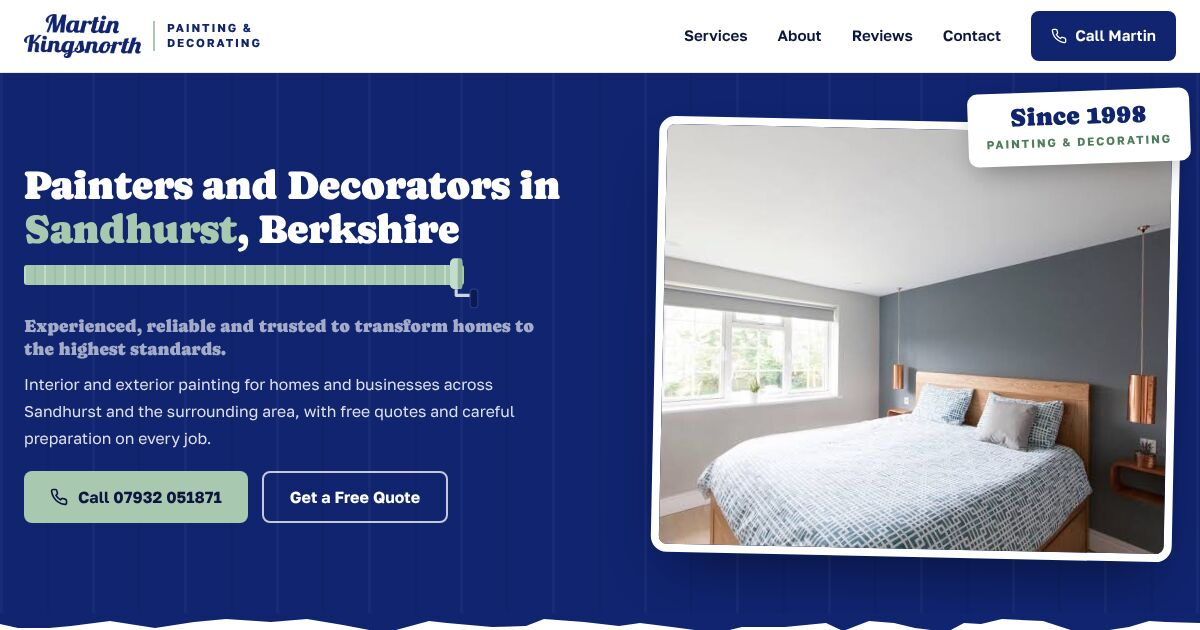
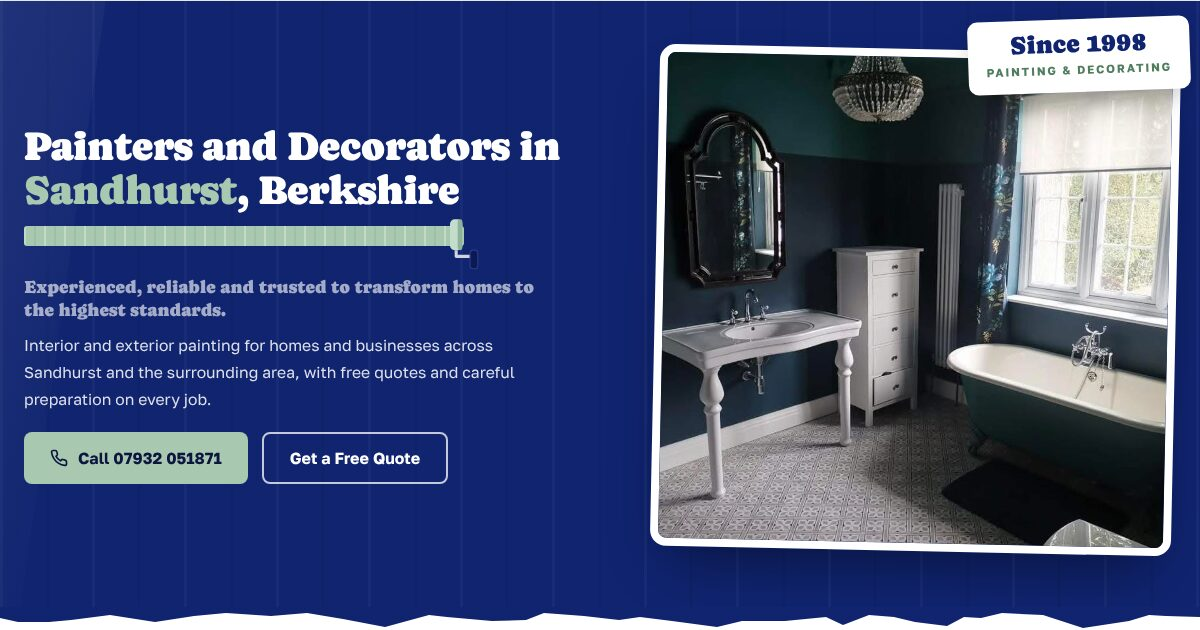
MK Painting: his own photos, recent work gallery, areas covered and dustless sanding
Replaces every stock photo with Martin's own job photos (hero, four
service cards and a 14-photo recent work gallery), adds an areas covered
panel with Sandhurst and slots for the towns still to confirm, and a
dustless sanding panel under the process steps.

diff --git a/mk-painting/index.html b/mk-painting/index.html
@@ -132,7 +132,7 @@ section{padding-top:96px;padding-bottom:96px}
 .svc::before{content:"";position:absolute;left:0;right:0;top:0;height:5px;background:var(--sage-deep);transform:scaleX(0);transform-origin:left;transition:transform .35s ease;z-index:2}
 .svc:hover{transform:translateY(-4px);box-shadow:0 22px 40px -22px rgba(13,22,64,.35)}
 .svc:hover::before{transform:scaleX(1)}
-.svc-img{aspect-ratio:16/9;overflow:hidden;background:var(--stone)}
+.svc-img{aspect-ratio:4/3;overflow:hidden;background:var(--stone)}
 .svc-img img{width:100%;height:100%;object-fit:cover;transition:transform .6s ease}
 .svc:hover .svc-img img{transform:scale(1.04)}
 .svc-body{padding:24px 26px 28px}
@@ -152,6 +152,37 @@ section{padding-top:96px;padding-bottom:96px}
 .step-n{display:inline-grid;place-items:center;width:46px;height:46px;border-radius:50%;background:var(--navy);color:#fff;font-family:var(--disp);font-size:1.3rem;margin-bottom:16px}
 .step p{margin-top:6px;font-size:.97rem}
 .step:not(:last-child)::after{content:"";position:absolute;top:52px;right:-28px;width:28px;height:8px;background:var(--sage);border-radius:2px}
+
+/* dustless sanding */
+.dustless{display:grid;grid-template-columns:auto 1fr;gap:40px;align-items:center;margin-top:36px;background:#fff;border:1px solid #d3e3d8;border-radius:16px;padding:40px 44px}
+.dust-mark{width:120px;height:120px;border-radius:50%;background:var(--navy);display:grid;place-items:center;flex:none}
+.dust-mark svg{width:64px;height:64px}
+.dustless h3{font-size:clamp(1.4rem,2.2vw,1.8rem)}
+.dustless p{margin-top:10px;max-width:680px}
+.dust-points{display:flex;flex-wrap:wrap;gap:10px 26px;margin-top:18px;list-style:none}
+.dust-points li{display:flex;align-items:center;gap:10px;font-weight:700;color:var(--ink);font-size:.97rem}
+.dust-points li::before{content:"";flex:none;width:24px;height:12px;border-radius:3px;background:var(--sage);background-image:repeating-linear-gradient(90deg,rgba(255,255,255,.3) 0 2px,transparent 2px 7px)}
+
+/* recent work */
+.work{padding-top:0}
+.work-grid{column-count:3;column-gap:18px}
+.work-grid figure{break-inside:avoid;margin-bottom:18px;border-radius:12px;overflow:hidden;background:var(--stone);cursor:zoom-in}
+.work-grid img{width:100%;height:auto;transition:transform .6s ease}
+.work-grid figure:hover img{transform:scale(1.03)}
+.lb{position:fixed;inset:0;z-index:90;background:rgba(11,26,85,.94);display:none;align-items:center;justify-content:center;padding:24px}
+.lb.open{display:flex}
+.lb img{max-width:100%;max-height:88vh;width:auto;height:auto;border-radius:10px;border:6px solid #fff}
+.lb button{position:absolute;top:16px;right:16px;width:48px;height:48px;border-radius:50%;border:0;background:#fff;color:var(--navy);font-size:1.6rem;line-height:1;cursor:pointer}
+
+/* areas */
+.areas{padding-top:0}
+.areas-panel{background:var(--stone);border-radius:18px;padding:48px 52px}
+.areas-panel h2{margin-bottom:10px}
+.areas-panel p{max-width:620px}
+.area-list{display:flex;flex-wrap:wrap;gap:12px;margin-top:24px;list-style:none}
+.area-list li{padding:12px 20px;border-radius:999px;font-weight:700;font-size:.98rem;line-height:1.2}
+.area-list .base{background:var(--navy);color:#fff}
+.area-list .tbc{border:2px dashed #b6c2bd;color:var(--muted);background:#fff}
 
 /* reviews */
 .rev-grid{display:grid;grid-template-columns:repeat(2,1fr);gap:24px}
@@ -288,6 +319,15 @@ body.loading .hero h1,body.loading .tagline,body.loading .lede,body.loading .cta
   .svc-grid,.rev-grid{grid-template-columns:1fr}
   .about-panel{grid-template-columns:1fr;gap:26px;padding:36px 26px}
   .about-panel img{max-width:220px}
+  .work-grid{column-count:2;column-gap:12px}
+  .work-grid figure{margin-bottom:12px}
+  .dustless{grid-template-columns:1fr;gap:20px;padding:30px 24px}
+  .dust-mark{width:84px;height:84px}
+  .dust-mark svg{width:46px;height:46px}
+  .dust-points{flex-direction:column}
+  .areas-panel{padding:34px 24px}
+  .area-list{gap:10px}
+  .area-list li{font-size:.86rem;padding:10px 13px}
   .band-in{flex-direction:column;align-items:flex-start}
   .contact-grid{grid-template-columns:1fr;gap:36px}
   section{padding-top:72px;padding-bottom:72px}
@@ -319,6 +359,7 @@ body.loading .hero h1,body.loading .tagline,body.loading .lede,body.loading .cta
     <div class="nav-links" id="navLinks">
       <a href="#services">Services</a>
       <a href="#about">About</a>
+      <a href="#work">Our Work</a>
       <a href="#reviews">Reviews</a>
       <a href="#contact">Contact</a>
       <a href="#contact" class="nav-cta js-phone" data-label="Call Martin"><svg viewBox="0 0 24 24" fill="none" stroke-width="2" stroke-linecap="round" stroke-linejoin="round"><path d="M22 16.9v3a2 2 0 0 1-2.2 2 19.8 19.8 0 0 1-8.6-3.1 19.5 19.5 0 0 1-6-6A19.8 19.8 0 0 1 2.1 4.2 2 2 0 0 1 4.1 2h3a2 2 0 0 1 2 1.7c.1.9.4 1.8.7 2.7a2 2 0 0 1-.5 2.1L8 9.8a16 16 0 0 0 6 6l1.3-1.3a2 2 0 0 1 2.1-.4c.9.3 1.8.6 2.7.7a2 2 0 0 1 1.7 2z"/></svg><span>Call Martin</span></a>
@@ -345,7 +386,7 @@ body.loading .hero h1,body.loading .tagline,body.loading .lede,body.loading .cta
         </div>
       </div>
       <div class="hero-photo">
-        <figure><img src="hero.jpg" alt="Bedroom finished with a grey feature wall and crisp white ceiling" width="678" height="452"></figure>
+        <figure><img src="hero.jpg" alt="Bathroom painted in dark green and navy with a white roll-top bath and white woodwork" width="828" height="825"></figure>
         <div class="badge"><b>Since 1998</b><small>Painting &amp; Decorating</small></div>
       </div>
     </div>
@@ -368,19 +409,19 @@ body.loading .hero h1,body.loading .tagline,body.loading .lede,body.loading .cta
     <div class="sec-head reveal"><span class="stripe"></span><h2>Painting and <span class="hl">decorating</span> services</h2></div>
     <div class="svc-grid">
       <article class="svc reveal">
-        <div class="svc-img"><img src="hero.jpg" alt="Bedroom with a freshly painted grey feature wall" loading="lazy" width="678" height="452"></div>
+        <div class="svc-img"><img src="svc-interior.jpg" alt="Dining room with navy panelled walls and white ceiling" loading="lazy" width="904" height="1200"></div>
         <div class="svc-body"><h3>Interior Painting &amp; Decorating</h3><p>Walls, ceilings, woodwork and feature walls, filled and sanded first.</p></div>
       </article>
       <article class="svc reveal">
-        <div class="svc-img"><img src="exterior.jpg" alt="Row of terraced houses with freshly painted pastel fronts" loading="lazy" width="521" height="383"></div>
+        <div class="svc-img"><img src="svc-exterior.jpg" alt="Teal front door with a white painted surround" loading="lazy" width="742" height="1200"></div>
         <div class="svc-body"><h3>Exterior Painting &amp; Decorating</h3><p>Render, masonry, windows, fascias and doors protected against the weather.</p></div>
       </article>
       <article class="svc reveal">
-        <div class="svc-img"><img src="decorating.jpg" alt="Decorated sitting room corner with patterned wall and armchair" loading="lazy" width="447" height="447"></div>
+        <div class="svc-img"><img src="svc-decorating.jpg" alt="Sage green sitting room with a floral wallpaper chimney breast" loading="lazy" width="900" height="1200"></div>
         <div class="svc-body"><h3>Residential Decorating</h3><p>Single rooms to whole houses, with floors and furniture covered throughout.</p></div>
       </article>
       <article class="svc reveal">
-        <div class="svc-img"><img src="commercial.jpg" alt="Finished office interior with painted walls and timber panelling" loading="lazy" width="900" height="600"></div>
+        <div class="svc-img"><img src="svc-woodwork.jpg" alt="Close-up of a white gloss window sill" loading="lazy" width="1100" height="1100"></div>
         <div class="svc-body"><h3>Commercial &amp; Industrial Painting</h3><p>Offices, shops and industrial units, inside and out.</p></div>
       </article>
     </div>
@@ -399,14 +440,44 @@ body.loading .hero h1,body.loading .tagline,body.loading .lede,body.loading .cta
   </div>
 </section>
 
+<section class="work" id="work">
+  <div class="wrap">
+    <div class="sec-head reveal"><span class="stripe"></span><h2>Recent <span class="hl">work</span></h2></div>
+    <div class="work-grid">
+      <figure class="reveal"><img src="work-01.jpg" alt="Vaulted kitchen extension with white walls and roof windows" loading="lazy" width="1100" height="1100"></figure>
+      <figure class="reveal"><img src="work-02.jpg" alt="Cloakroom painted dark green below a white upper wall" loading="lazy" width="904" height="1200"></figure>
+      <figure class="reveal"><img src="work-03.jpg" alt="Room painted in terracotta with white skirting and door" loading="lazy" width="828" height="1091"></figure>
+      <figure class="reveal"><img src="work-04.jpg" alt="Bedroom with navy lower walls and white upper walls" loading="lazy" width="904" height="1200"></figure>
+      <figure class="reveal"><img src="work-05.jpg" alt="Kitchen with teal walls and cream units" loading="lazy" width="828" height="547"></figure>
+      <figure class="reveal"><img src="work-06.jpg" alt="White painted bay window" loading="lazy" width="828" height="700"></figure>
+      <figure class="reveal"><img src="work-08.jpg" alt="Bedroom painted in soft lilac" loading="lazy" width="675" height="1200"></figure>
+      <figure class="reveal"><img src="work-09.jpg" alt="Bedroom with grey walls and white skirting" loading="lazy" width="904" height="1200"></figure>
+      <figure class="reveal"><img src="work-10.jpg" alt="Kitchen and dining area in pale neutral paint" loading="lazy" width="903" height="1200"></figure>
+      <figure class="reveal"><img src="work-11.jpg" alt="Bedroom with a navy lower wall beside a cot" loading="lazy" width="904" height="1200"></figure>
+      <figure class="reveal"><img src="work-12.jpg" alt="Nursery painted in soft pink" loading="lazy" width="675" height="1200"></figure>
+      <figure class="reveal"><img src="work-13.jpg" alt="Kitchen with cream units and pale neutral walls" loading="lazy" width="903" height="1200"></figure>
+      <figure class="reveal"><img src="work-14.jpg" alt="Hallway in pale neutral paint with white door" loading="lazy" width="903" height="1200"></figure>
+      <figure class="reveal"><img src="work-07.jpg" alt="Dark green cloakroom with white woodwork" loading="lazy" width="904" height="1200"></figure>
+    </div>
+  </div>
+</section>
+
 <section class="process">
   <div class="wrap">
     <div class="sec-head reveal"><span class="stripe"></span><h2>How each job is <span class="hl">carried out</span></h2></div>
     <div class="steps">
       <div class="step reveal"><span class="step-n">1</span><h3>Free quote</h3><p>Martin visits, looks over the surfaces and prices the work.</p></div>
-      <div class="step reveal"><span class="step-n">2</span><h3>Prep and protect</h3><p>Floors and furniture covered, cracks filled, surfaces sanded and primed.</p></div>
+      <div class="step reveal"><span class="step-n">2</span><h3>Prep and protect</h3><p>Floors and furniture covered, cracks filled, then dustless sanding and priming.</p></div>
       <div class="step reveal"><span class="step-n">3</span><h3>Paint</h3><p>Clean cut-in lines and even coats, with drying time respected.</p></div>
       <div class="step reveal"><span class="step-n">4</span><h3>Clear up</h3><p>Sheets lifted, rooms put back and the finish checked with you.</p></div>
+    </div>
+    <div class="dustless reveal">
+      <div class="dust-mark" aria-hidden="true"><svg viewBox="0 0 64 64"><path d="M40 30c9 0 13 4 13 12v14" fill="none" stroke="#a9c8b0" stroke-width="5" stroke-linecap="round"/><ellipse cx="26" cy="46" rx="20" ry="6" fill="#a9c8b0"/><path d="M12 44c0-12 6-22 14-22s14 10 14 22z" fill="#ffffff"/><rect x="20" y="12" width="12" height="13" rx="5" fill="#ffffff"/></svg></div>
+      <div>
+        <h3>Dustless sanding in your home</h3>
+        <p>Preparation is where most of the dust on a decorating job comes from. Martin sands filler, walls and woodwork with a dustless sanding system, where an extractor draws the dust away at the sanding head, so very little of it settles on floors, furniture and soft furnishings while you live in the house.</p>
+        <ul class="dust-points"><li>Dust kept to a minimum</li><li>Less cleaning after prep</li><li>Suited to lived-in homes</li></ul>
+      </div>
     </div>
   </div>
 </section>
@@ -419,6 +490,23 @@ body.loading .hero h1,body.loading .tagline,body.loading .lede,body.loading .cta
       <div class="rev reveal"><div class="stars">★★★★★</div><blockquote>MK Painting did the outside of our semi in Owlsmoor: windows, fascias and the front door. Turned up on the day he said and the house looks new again.</blockquote><cite>Steve R., Owlsmoor · Exterior painting</cite></div>
       <div class="rev reveal"><div class="stars">★★★★★</div><blockquote>We had three bedrooms decorated by MK Painting before moving in at College Town. Sharp lines on every edge and a fair price. We will be using Martin again.</blockquote><cite>Priya S., College Town · Decorating</cite></div>
       <div class="rev reveal"><div class="stars">★★★★★</div><blockquote>Martin painted our shop unit in Crowthorne over a weekend so we did not lose any trading days. MK Painting were professional from the quote to the final coat.</blockquote><cite>Dan W., Crowthorne · Commercial painting</cite></div>
+    </div>
+  </div>
+</section>
+
+<section class="areas" id="areas">
+  <div class="wrap">
+    <div class="areas-panel reveal">
+      <span class="stripe"></span>
+      <h2>Areas <span class="hl">covered</span></h2>
+      <p>Based in Sandhurst, Berkshire, decorating homes and businesses across the surrounding towns and villages.</p>
+      <ul class="area-list">
+        <li class="base">Sandhurst, Berkshire</li>
+        <li class="tbc">Area to confirm</li>
+        <li class="tbc">Area to confirm</li>
+        <li class="tbc">Area to confirm</li>
+        <li class="tbc">Area to confirm</li>
+      </ul>
     </div>
   </div>
 </section>
@@ -470,6 +558,8 @@ body.loading .hero h1,body.loading .tagline,body.loading .lede,body.loading .cta
     <div class="foot-base"><span>© 2026 MK Painting. All rights reserved.</span><span>Site by <a href="https://construction-sites.co.uk" target="_blank" rel="noopener">construction-sites.co.uk</a></span></div>
   </div>
 </footer>
+
+<div class="lb" id="lb" role="dialog" aria-modal="true" aria-label="Photo"><button type="button" id="lbClose" aria-label="Close photo">&times;</button><img id="lbImg" alt=""></div>
 
 <div class="fabs" id="fabs">
   <a class="fab fab-wa" id="fabWa" href="#contact" aria-label="WhatsApp"><svg viewBox="0 0 24 24" fill="#fff"><path d="M17.5 14.4c-.3-.1-1.8-.9-2-1-.3-.1-.5-.1-.7.1-.2.3-.8 1-.9 1.2-.2.2-.3.2-.6.1a8.2 8.2 0 0 1-4-3.5c-.3-.5.3-.5.9-1.6.1-.2 0-.4 0-.5l-.9-2.2c-.2-.6-.5-.5-.7-.5h-.6c-.2 0-.5.1-.8.4-.3.3-1 1-1 2.5s1.1 2.9 1.2 3.1c.1.2 2.1 3.2 5.1 4.5 1.9.8 2.6.9 3.6.7.6-.1 1.8-.7 2-1.4.2-.7.2-1.3.2-1.4-.1-.2-.3-.3-.6-.4zM12 21.8a9.8 9.8 0 0 1-5-1.4l-.4-.2-3.7 1 1-3.6-.2-.4A9.8 9.8 0 1 1 12 21.8zm0-21.6A11.8 11.8 0 0 0 1.9 18l-1.7 6 6.2-1.6A11.8 11.8 0 1 0 12 .2z"/></svg></a>
@@ -525,6 +615,15 @@ body.loading .hero h1,body.loading .tagline,body.loading .lede,body.loading .cta
     es.forEach(function(e){ if (e.isIntersecting){ e.target.classList.add('in'); io.unobserve(e.target); } });
   }, {threshold:.12, rootMargin:'0px 0px -40px 0px'});
   document.querySelectorAll('.reveal').forEach(function(el){ io.observe(el); });
+
+  // recent work lightbox
+  var lb = document.getElementById('lb'), lbImg = document.getElementById('lbImg');
+  document.querySelectorAll('.work-grid img').forEach(function(img){
+    img.addEventListener('click', function(){ lbImg.src = img.src; lbImg.alt = img.alt; lb.classList.add('open'); });
+  });
+  function closeLb(){ lb.classList.remove('open'); }
+  lb.addEventListener('click', function(e){ if (e.target !== lbImg) closeLb(); });
+  document.addEventListener('keydown', function(e){ if (e.key === 'Escape') closeLb(); });
 
   // FABs after hero CTAs leave view
   var fabs = document.getElementById('fabs'), heroCtas = document.querySelector('.hero .ctas');
